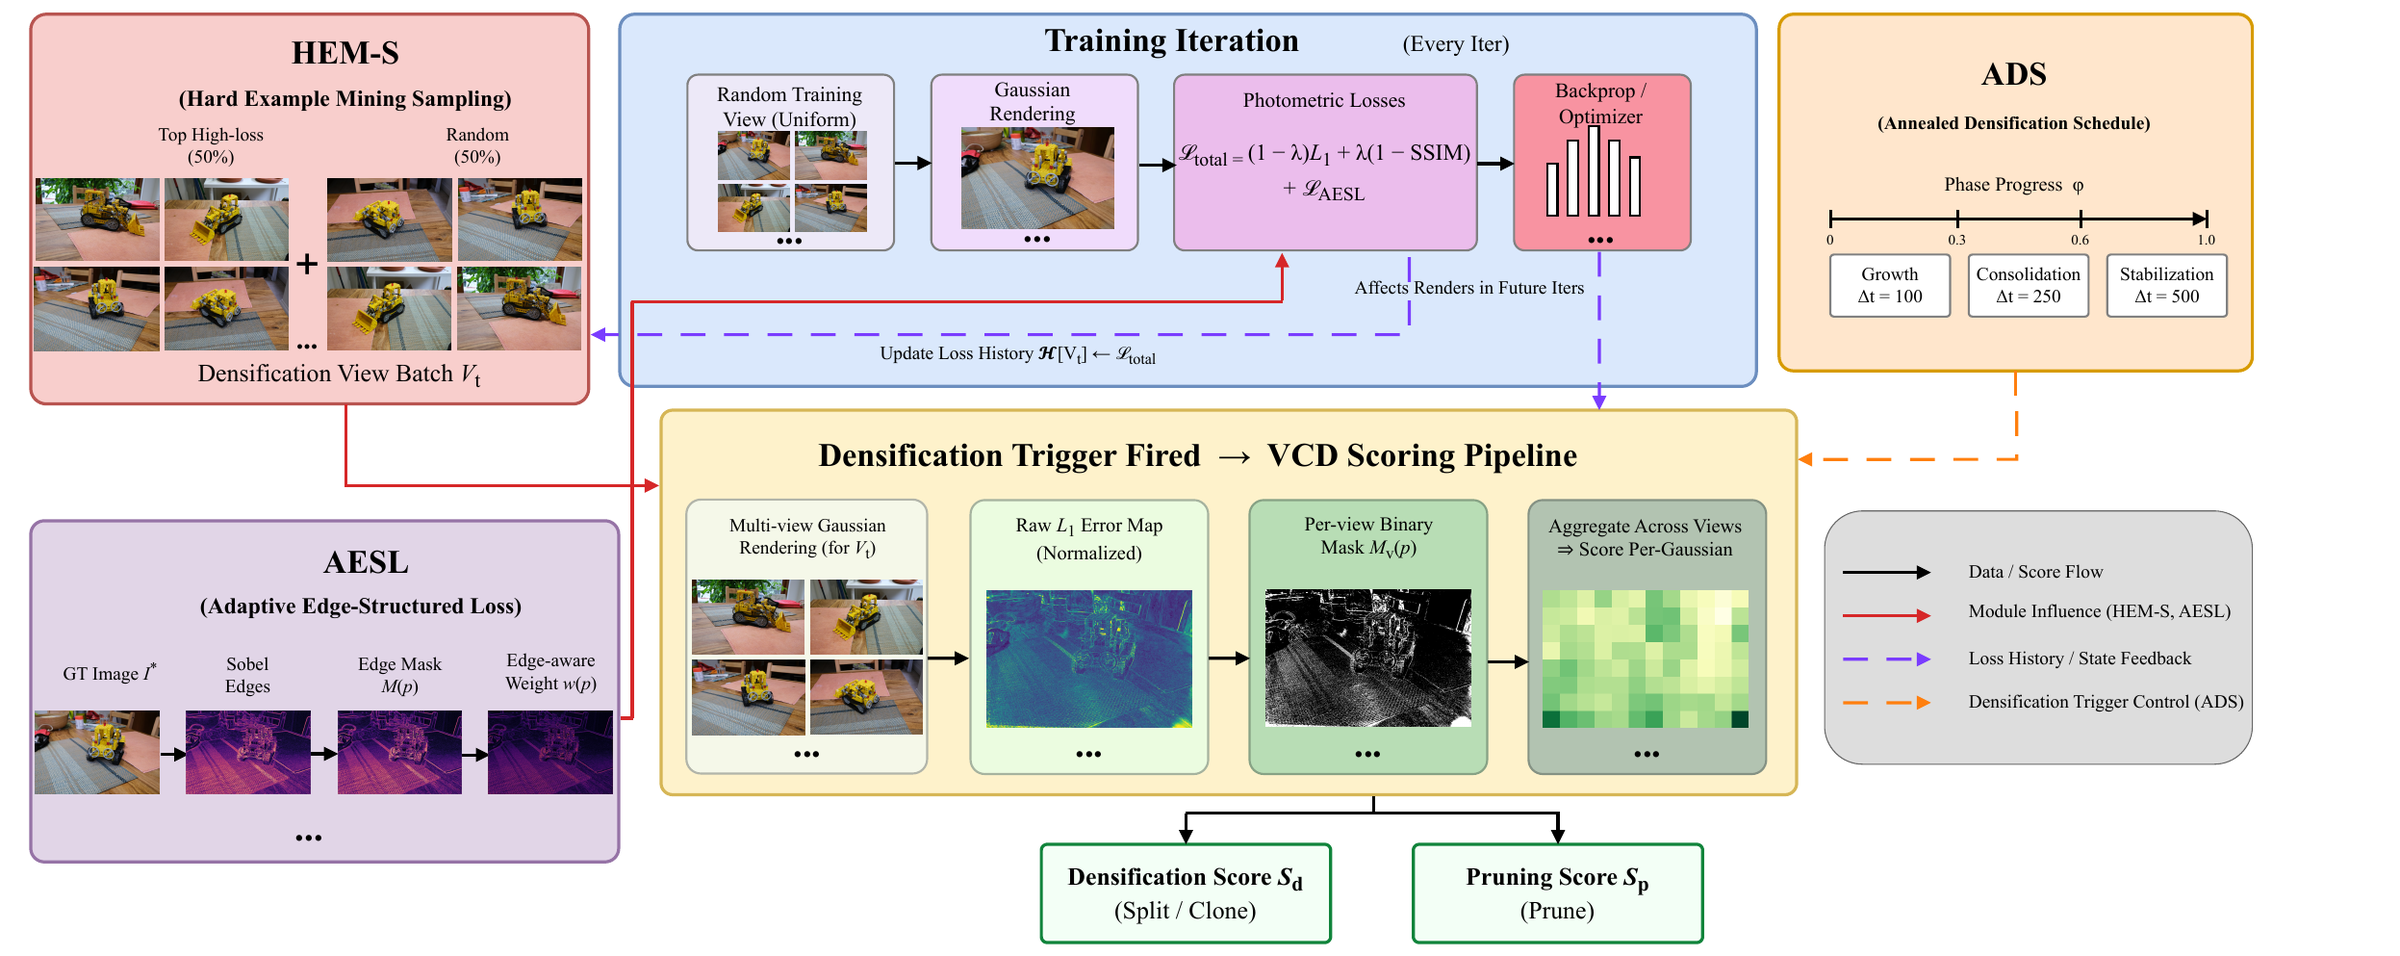
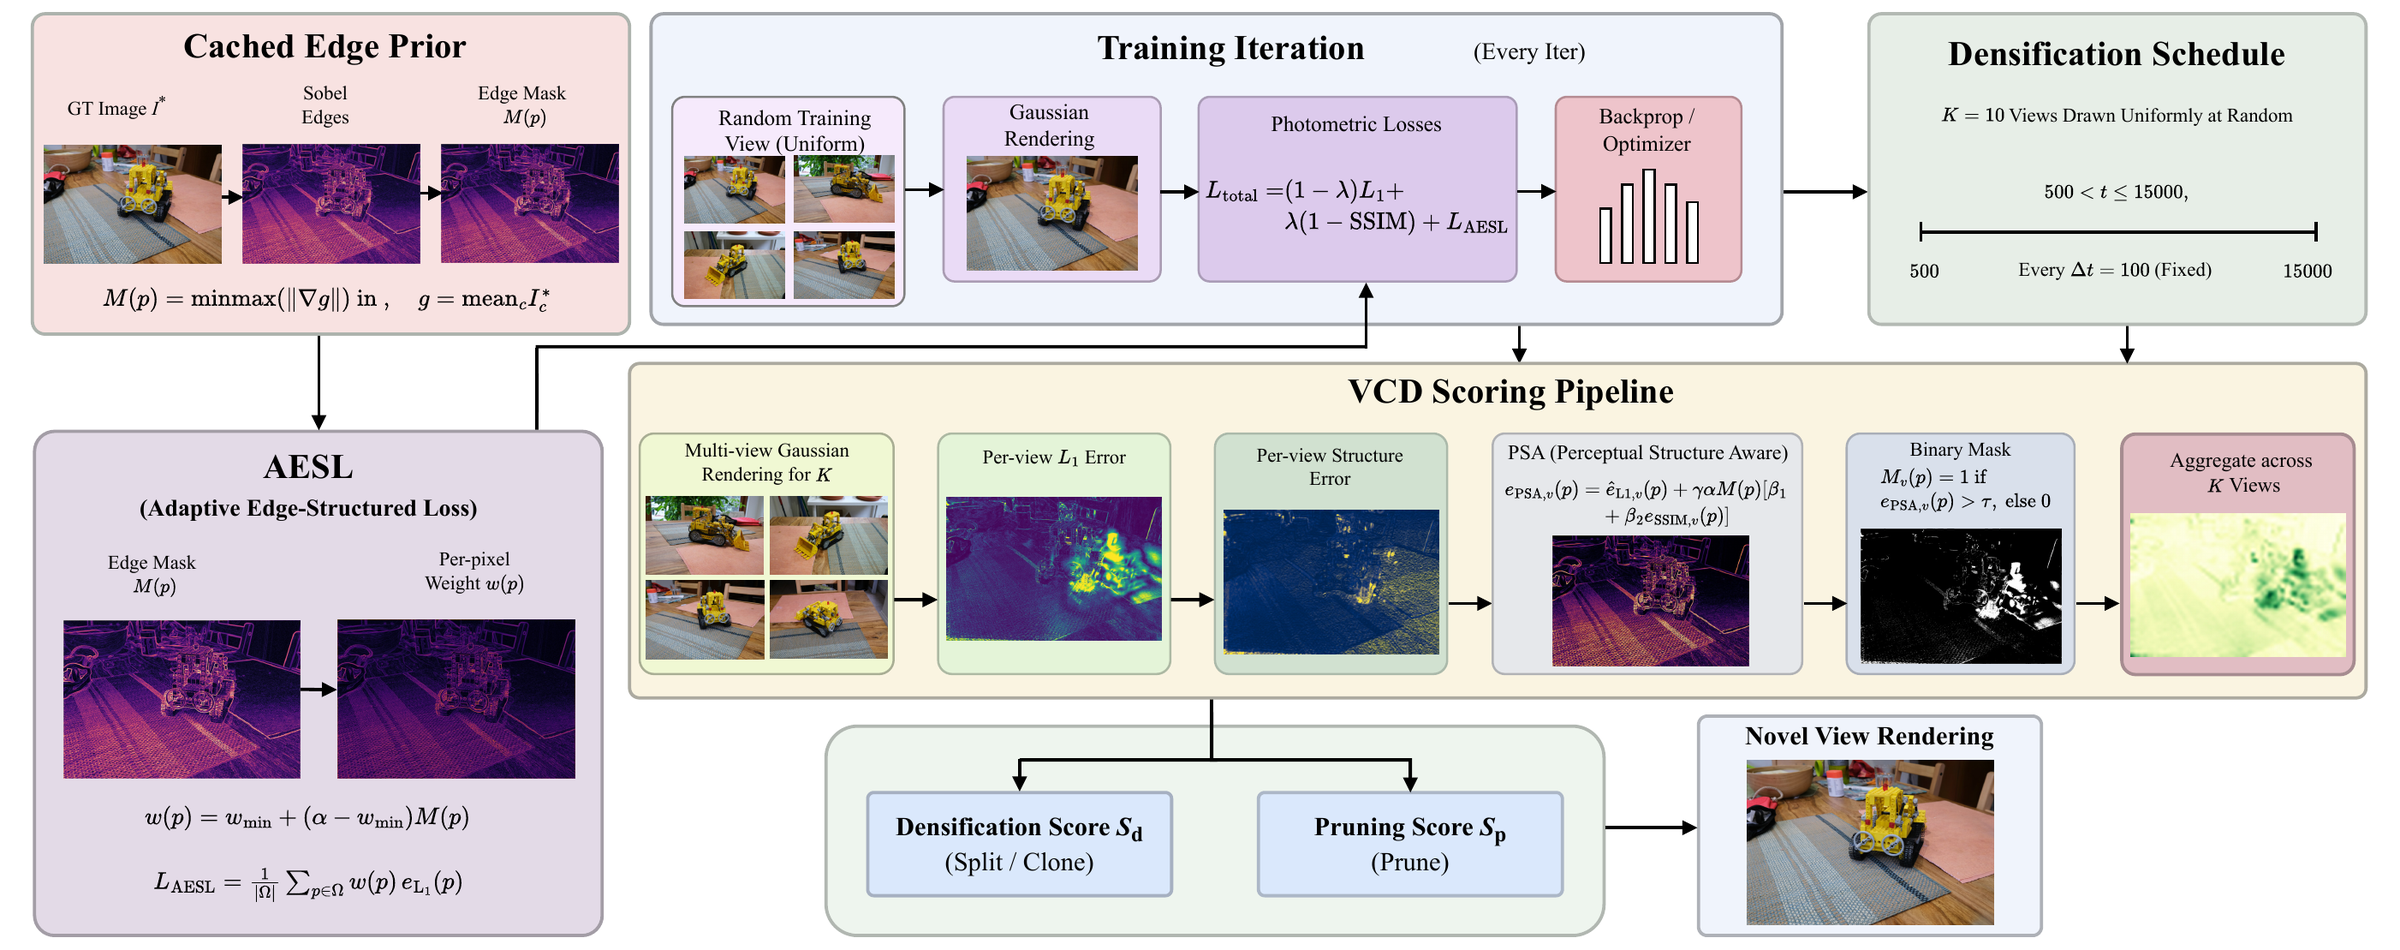
Initial Release

diff --git a/index.html b/index.html
@@ -72,9 +72,8 @@
 <section>
   <img class="wide zoom" src="static/images/architecture.png" alt="FastGS-Adaptive architecture">
   <div class="cards">
-    <div class="card"><b>AESL</b><span>Adaptive Edge-Structured Loss &mdash; modulates the photometric penalty with a Sobel edge prior.</span></div>
-    <div class="card"><b>HEM-S</b><span>Hard Example Mining Sampler &mdash; half the densification views drawn from the highest-loss cameras.</span></div>
-    <div class="card"><b>ADS</b><span>Annealed Densification Schedule &mdash; split interval decays 100&nbsp;&rarr;&nbsp;250&nbsp;&rarr;&nbsp;500.</span></div>
+    <div class="card"><b>AESL</b><span>Adaptive Edge-Structured Loss &mdash; modulates the per-pixel photometric penalty with a Sobel edge prior cached once per camera.</span></div>
+    <div class="card"><b>PSA</b><span>Perceptual Structure-Aware densification &mdash; replaces the thresholded residual in the scoring rule with an edge-gated combination of photometric and local SSIM error.</span></div>
   </div>
 </section>
 
@@ -107,12 +106,6 @@
   <img class="wide" src="static/images/perscene_delta.png" alt="Per-scene PSNR gain">
   <p class="cap">Per-scene PSNR gain over FastGS-Big on Mip-NeRF&nbsp;360. Eight of nine scenes improve.</p>
 
-  <div class="abl">
-    <div class="row head"><span>AESL</span><span>HEM-S</span><span>ADS</span><span>PSNR</span><span>SSIM</span><span>LPIPS</span></div>
-    <div class="row"><span>&ndash;</span><span>&ndash;</span><span>&ndash;</span><span>27.95</span><span>.820</span><span>.216</span></div>
-    <div class="row"><span>&check;</span><span>&ndash;</span><span>&ndash;</span><span>28.08</span><span>.822</span><span>.211</span></div>
-    <div class="row on"><span>&check;</span><span>&check;</span><span>&check;</span><span>28.09</span><span>.823</span><span>.211</span></div>
-  </div>
 </section>
 
 <section class="gifs">

diff --git a/README.md b/README.md
@@ -43,151 +43,67 @@
 <div align="center">
 <img src="static/images/architecture.png" width="95%">
 <br>
-<em>FastGS-Adaptive. Three additive mechanisms &mdash; an adaptive edge-structured loss (AESL), a hard example mining sampler (HEM-S), and an annealed densification schedule (ADS) &mdash; make densification structure-aware and view-consistent without modifying the CUDA rasteriser.</em>
+<em>Two additive mechanisms &mdash; an adaptive edge-structured loss (AESL) and perceptual
+structure-aware densification (PSA) &mdash; introduce image structure into the photometric
+objective and the densification scoring rule, both driven by a single edge prior cached once
+per camera.</em>
 </div>
-
----
-
-<div align="center">
-<img src="assets/demo_kitchen.gif" width="95%">
-<br>
-<em>Ground Truth (left) vs FastGS-Adaptive (Ours, right) on the <b>kitchen</b> scene.</em>
-</div>
-
-<div align="center">
-<img src="assets/demo_bonsai.gif" width="95%">
-<br>
-<em>Ground Truth (left) vs FastGS-Adaptive (Ours, right) on the <b>bonsai</b> scene.</em>
-</div>
-
-<div align="center">
-<img src="assets/demo_bicycle.gif" width="95%">
-<br>
-<em>Ground Truth (left) vs FastGS-Adaptive (Ours, right) on the <b>bicycle</b> outdoor scene.</em>
-</div>
-
----
-
-## Abstract
-
-3D Gaussian Splatting (3DGS) has established itself as a leading representation for real-time novel
-view synthesis. Recent acceleration frameworks such as FastGS have significantly reduced per-scene
-training time through multi-view consistent densification and pruning. However, FastGS employs a
-structure-agnostic L1 error metric to guide densification: the scoring head evaluates each pixel
-solely by photometric residual magnitude, without distinguishing residuals on geometric edges from
-those on textureless surfaces.
-
-We propose **FastGS-Adaptive**, a structure-aware densification framework that introduces three
-additive mechanisms:
-
-- **AESL** (Adaptive Edge-Structured Loss) modulates the photometric penalty using Sobel-derived
-  gradient priors.
-- **HEM-S** (Hard Example Mining Sampler) replaces uniform camera selection with a
-  loss-history-biased policy, focusing densification capacity on under-reconstructed views.
-- **ADS** (Annealed Densification Schedule) decays the split frequency across three phases to
-  eliminate late-stage overhead.
-
-FastGS-Adaptive surpasses existing state-of-the-art acceleration methods on all three standard
-quality metrics.
 
 ## Results
 
-Baseline figures are those reported in the corresponding publications.
+Mip-NeRF 360, nine-scene means. Baselines as reported in the corresponding publications.
 
-**Mip-NeRF 360**
-
-| Method | PSNR &uarr; | SSIM &uarr; | LPIPS &darr; | Primitives |
+| Method | PSNR &uarr; | SSIM &uarr; | LPIPS &darr; | \|G\| |
 |---|---|---|---|---|
 | 3DGS | 27.53 | .812 | .221 | 2.63 M |
 | Mini-Splatting | 27.32 | .821 | .217 | 0.53 M |
-| Speedy-Splat | 26.91 | .781 | .295 | **0.30 M** |
+| Speedy-Splat | 26.91 | .781 | .295 | 0.30 M |
 | Taming-3DGS | 27.48 | .794 | .261 | 0.68 M |
 | DashGaussian | 27.73 | .817 | .218 | 2.40 M |
 | FastGS | 27.56 | .797 | .261 | 0.40 M |
 | FastGS-Big | 27.93 | .820 | .216 | 1.15 M |
-| **FastGS-Adaptive (ours)** | **28.09** | **.823** | **.211** | 1.58 M |
+| **FastGS-Adaptive** | **28.09** | **.823** | **.211** | 1.58 M |
 
-**Deep Blending and Tanks & Temples**
-
-| Method | DB PSNR | DB SSIM | DB LPIPS | T&T PSNR | T&T SSIM | T&T LPIPS |
-|---|---|---|---|---|---|---|
-| FastGS | 30.03 | .901 | .270 | 24.15 | .839 | .210 |
-| FastGS-Big | 30.12 | .907 | .243 | 24.39 | **.855** | .175 |
-| **FastGS-Adaptive (ours)** | **30.31** | **.912** | .244 | **24.49** | **.855** | .180 |
-
-Eight of the nine Mip-NeRF 360 scenes improve over FastGS-Big, for a mean gain of +0.16 dB.
-
-### Ablation (Mip-NeRF 360)
-
-| AESL | HEM-S | ADS | PSNR | SSIM | LPIPS |
-|:--:|:--:|:--:|---|---|---|
-| | | | 27.95 | .820 | .216 |
-| ✓ | | | 28.08 | .822 | .211 |
-| ✓ | ✓ | ✓ | **28.09** | **.823** | **.211** |
+Deep Blending **30.31** / **.912** / .244 &nbsp;&middot;&nbsp;
+Tanks &amp; Temples **24.49** / **.855** / .180. Eight of nine Mip-NeRF 360 scenes improve.
 
 ## Setup
 
-Create the conda environment from `environment.yml`:
-
 ```bash
-conda env create -f environment.yml
-conda activate fastgs
+conda env create -f environment.yml && conda activate fastgs
 ```
 
-The training pipeline depends on three CUDA submodules from the upstream
-FastGS project (`diff-gaussian-rasterization_fastgs`, `simple-knn`, and
-`fused-ssim`). Clone the upstream repository and install them in editable
-mode into the same environment:
+Install the three upstream CUDA submodules into the same environment:
 
 ```bash
 git clone --recursive https://github.com/fastgs/FastGS.git fastgs_upstream
-cd fastgs_upstream
-pip install ./submodules/diff-gaussian-rasterization_fastgs
-pip install ./submodules/simple-knn
-pip install ./submodules/fused-ssim
-cd ..
+pip install ./fastgs_upstream/submodules/diff-gaussian-rasterization_fastgs
+pip install ./fastgs_upstream/submodules/simple-knn
+pip install ./fastgs_upstream/submodules/fused-ssim
 ```
 
-Download the [Mip-NeRF 360 dataset](https://jonbarron.info/mipnerf360/) and
-place each scene under `~/data/fastgs/datasets/mipnerf360/`.
+Place [Mip-NeRF 360](https://jonbarron.info/mipnerf360/) scenes under
+`~/data/fastgs/datasets/mipnerf360/`.
 
 ## Reproduce
 
-Run all nine scenes end-to-end (training, rendering, metrics):
-
 ```bash
-bash run_adaptive_benchmark.sh
-```
-
-Or train a single scene manually:
-
-```bash
-python train.py -s ~/data/fastgs/datasets/mipnerf360/kitchen \
-                --eval --densification_interval 500 \
-                --adaptive_densification --structural_weight 5.0 \
-                --densify_until_iter 18000 \
-                --highfeature_lr 0.02 --grad_abs_thresh 0.0002 \
-                --model_path output/kitchen_Adaptive
-python render.py  -m output/kitchen_Adaptive --skip_train --quiet
-python metrics.py -m output/kitchen_Adaptive
+bash run_adaptive_benchmark.sh          # all nine scenes: train, render, metrics
 ```
 
 ## Repository Layout
 
 ```
 arguments/           CLI / config dataclasses
-gaussian_renderer/   FastGS rasteriser wrapper + network GUI
-lpipsPyTorch/        LPIPS metric (perceptual similarity)
-scene/               COLMAP loader, dataset readers, Gaussian model
-utils/               loss, edge mask, hard-example mining, densification scoring
-train.py             training entry point (FastGS-Adaptive)
-render.py            per-scene novel-view rendering
-metrics.py           PSNR / SSIM / LPIPS evaluation
-compare_final.py     aggregate metrics across scenes
-run_adaptive_benchmark.sh   reproduce all nine Mip-NeRF 360 scenes
-environment.yml      conda environment specification
+gaussian_renderer/   FastGS rasteriser wrapper
+lpipsPyTorch/        LPIPS metric
+scene/               COLMAP loader, Gaussian model
+utils/               loss, cached edge mask, densification scoring
+train.py             training entry point
+render.py            novel-view rendering
+metrics.py           PSNR / SSIM / LPIPS
 ```
 
 ## License
 
-This project is released under the [Apache 2.0 License](LICENSE).
+Apache 2.0. Built on [FastGS](https://github.com/fastgs/FastGS).
